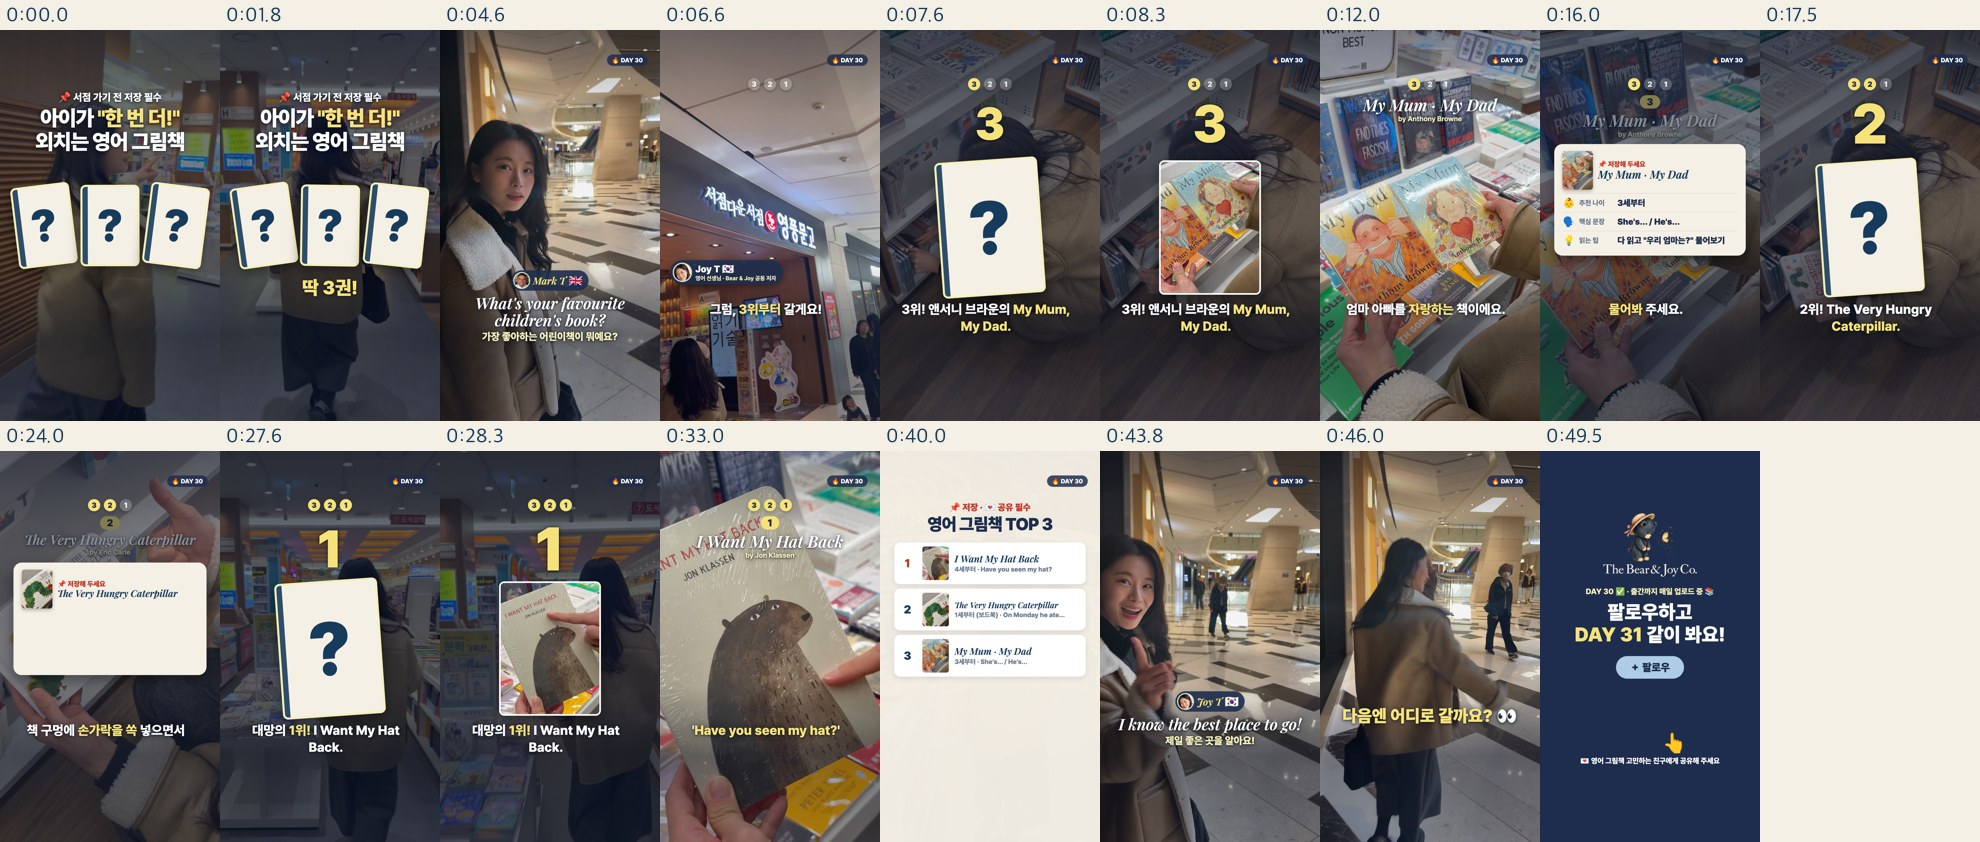
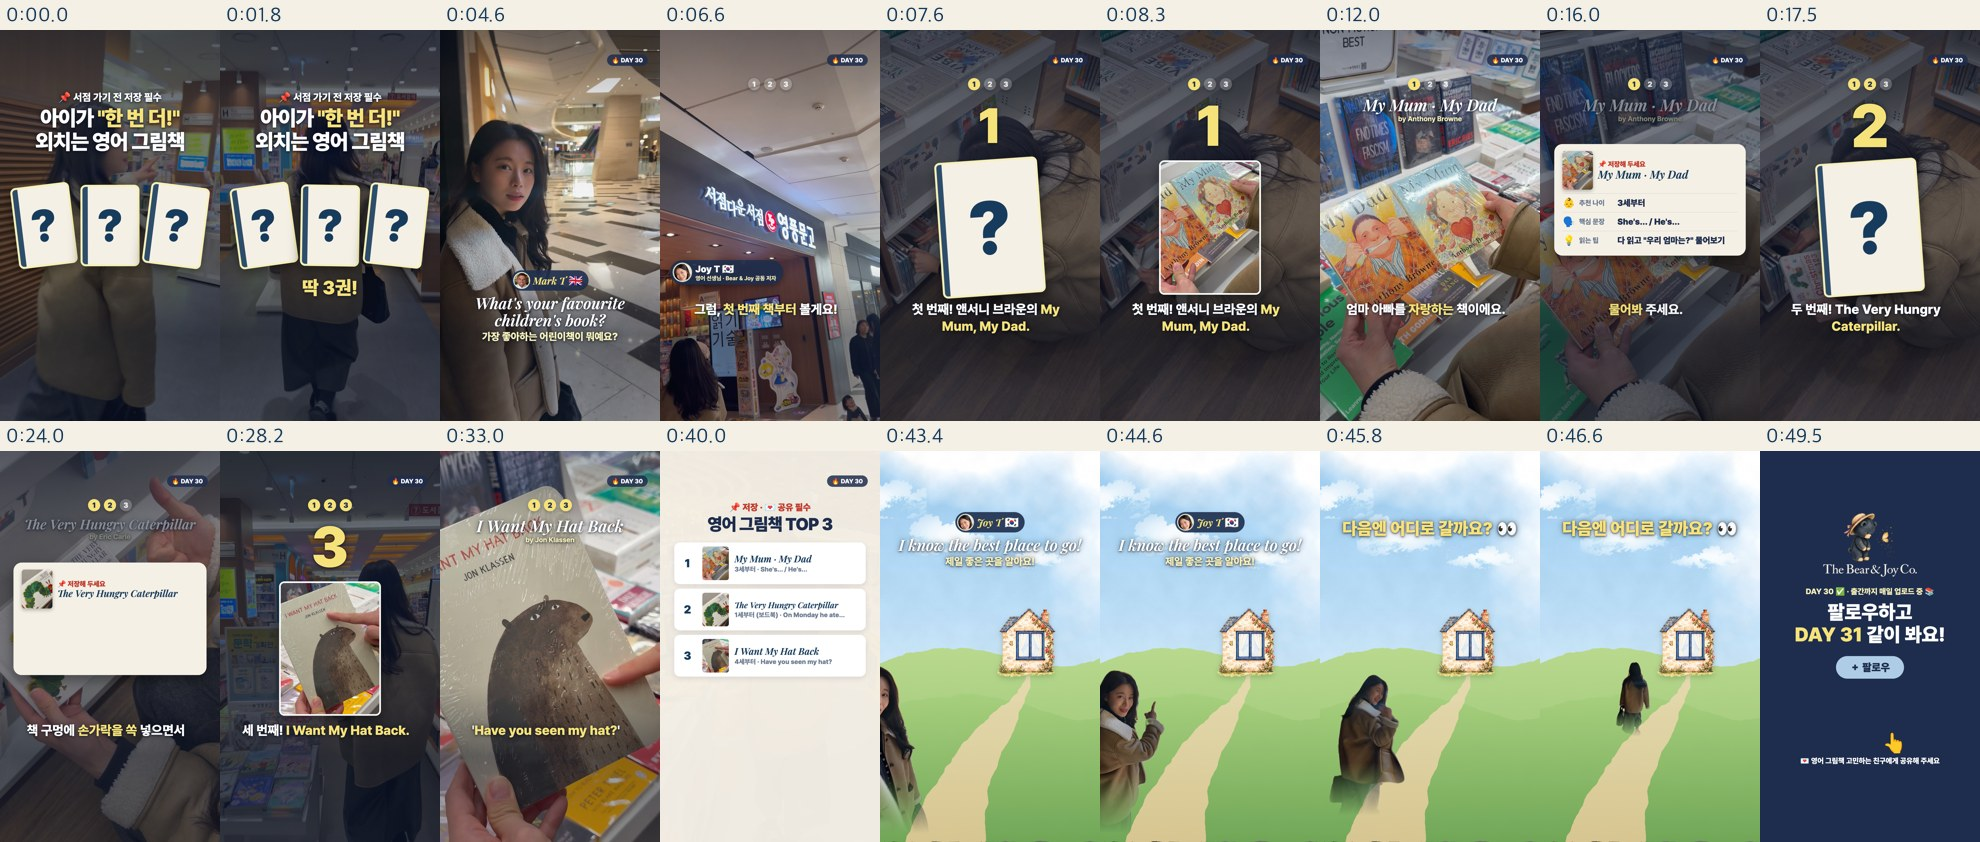
DAY 30 TOP 3 v4 (Joy): no ranking (books 1-2-3 in order), storybook ending with Joy running to the Bear & Joy cottage

diff --git a/remotion/src/JoyTop3Reel.tsx b/remotion/src/JoyTop3Reel.tsx
@@ -2,7 +2,7 @@
 // Mystery hook (three "?" books), a 3-2-1 countdown with card-flip reveals, a save-worthy info card per book,
 // a summary card to screenshot, then the Bear & Joy follow end card. Footage keeps its own colours (Joy, Day 28).
 import React, {useEffect, useState} from 'react';
-import {AbsoluteFill, Img, OffthreadVideo, continueRender, delayRender, interpolate, spring, staticFile, useCurrentFrame, useVideoConfig, Easing} from 'remotion';
+import {AbsoluteFill, Img, OffthreadVideo, Sequence, continueRender, delayRender, interpolate, spring, staticFile, useCurrentFrame, useVideoConfig, Easing} from 'remotion';
 
 type Scene = {name: string; s: number; e: number};
 type Book = {title: string; author: string; cover: string; info: [string, string, string][]};
@@ -58,12 +58,54 @@ const RankDots: React.FC<{t: number; scenes: Scene[]}> = ({t, scenes}) => {
   const at = (n: number) => scenes.find((s) => s.name === `reveal${n}`)?.s ?? 1e9;
   return (
     <div style={{position: 'absolute', top: 236, left: 0, right: 0, display: 'flex', justifyContent: 'center', gap: 18, fontFamily: FF}}>
-      {[3, 2, 1].map((n) => {
+      {[1, 2, 3].map((n) => {
         const on = t >= at(n);
         return <div key={n} style={{minWidth: 60, height: 60, borderRadius: 30, fontWeight: 900, fontSize: 36, display: 'flex', alignItems: 'center', justifyContent: 'center',
           background: on ? C.yellow : 'rgba(255,255,255,.22)', color: on ? C.navy : 'rgba(255,255,255,.85)', boxShadow: '0 6px 16px rgba(0,0,0,.25)'}}>{n}</div>;
       })}
     </div>
+  );
+};
+
+
+// Storybook ending (Joy, 11 Nov 2026): a small Joy in a watercolour landscape says "I know the best place to go!"
+// and runs off to the Bear & Joy cottage (the Day 1 worksheet house) far away on the hill.
+const StoryScene: React.FC<{t: number; s: number; e: number; media: string; fps: number}> = ({t, s, e, media, fps}) => {
+  const local = t - s;
+  const run = interpolate(local, [2.45, e - s - .1], [0, 1], {...clamp, easing: Easing.in(Easing.quad)});
+  const intro = sp(t, s, fps, 14);
+  // Joy: bottom-left, then along the path towards the cottage door, getting smaller
+  const scale = interpolate(run, [0, 1], [.58, .09]);
+  const x = interpolate(run, [0, 1], [-60, 560]);
+  const y = interpolate(run, [0, 1], [1920 - 1920 * .6 + 40, 1010]);
+  const drift = (k: number) => ((local * (14 + 6 * k) + k * 420) % 1500) - 300;
+  return (
+    <AbsoluteFill style={{opacity: Math.min(1, intro * 2)}}>
+      <Img src={staticFile('day0/bg-sky.jpg')} style={{position: 'absolute', height: 1920, left: -600, top: -300, filter: 'saturate(1.15)'}} />
+      {[0, 1, 2].map((k) => <Img key={k} src={staticFile(`day0/cloud${k}.png`)} style={{position: 'absolute', width: 520 - 80 * k, top: 140 + 160 * k, left: drift(k), opacity: .9}} />)}
+      <svg width="1080" height="1920" style={{position: 'absolute', inset: 0}}>
+        <defs>
+          <filter id="wc"><feTurbulence type="fractalNoise" baseFrequency=".012" numOctaves="3" seed="7" /><feDisplacementMap in="SourceGraphic" scale="26" /></filter>
+          <linearGradient id="h1" x1="0" y1="0" x2="0" y2="1"><stop offset="0" stopColor="#B9D98E" /><stop offset="1" stopColor="#8DBB6A" /></linearGradient>
+          <linearGradient id="h2" x1="0" y1="0" x2="0" y2="1"><stop offset="0" stopColor="#A6CF7C" /><stop offset="1" stopColor="#6FA557" /></linearGradient>
+          <linearGradient id="pth" x1="0" y1="0" x2="0" y2="1"><stop offset="0" stopColor="#EADBB5" /><stop offset="1" stopColor="#E2C997" /></linearGradient>
+        </defs>
+        <g filter="url(#wc)">
+          <path d="M-100 1080 Q 300 900 620 1010 T 1200 960 L 1200 1920 L -100 1920 Z" fill="url(#h1)" />
+          <path d="M-100 1300 Q 400 1120 760 1260 T 1200 1220 L 1200 1920 L -100 1920 Z" fill="url(#h2)" opacity=".95" />
+          <path d="M 120 1920 C 260 1600, 420 1400, 600 1250 S 700 1080, 700 1040 L 742 1040 C 760 1100, 720 1250, 640 1400 S 500 1700, 520 1920 Z" fill="url(#pth)" opacity=".9" />
+        </g>
+      </svg>
+      <Img src={staticFile(`${media}/cottage.png`)} style={{position: 'absolute', width: 300, left: 570, top: 760, filter: 'drop-shadow(0 10px 14px rgba(40,60,30,.25))'}} />
+      <Sequence from={Math.round(s * fps)} layout="none">
+        <div style={{position: 'absolute', left: x, top: y, width: 1080, height: 1920, transform: `scale(${scale})`, transformOrigin: '0 0',
+          // soft edges: feet fade into the grass, and the source frame's left edge never shows as a straight cut
+          WebkitMaskImage: 'linear-gradient(180deg, #000 70%, transparent 96%), linear-gradient(90deg, transparent 0%, #000 9%)', WebkitMaskComposite: 'source-in',
+          maskImage: 'linear-gradient(180deg, #000 70%, transparent 96%), linear-gradient(90deg, transparent 0%, #000 9%)', maskComposite: 'intersect'} as React.CSSProperties}>
+          <OffthreadVideo src={staticFile(`${media}/outro-joy.webm`)} transparent muted style={{width: 1080, height: 1920}} />
+        </div>
+      </Sequence>
+    </AbsoluteFill>
   );
 };
 
@@ -88,6 +130,8 @@ export const JoyTop3Reel: React.FC<{plan: Top3Plan}> = ({plan}) => {
       </AbsoluteFill>
       <AbsoluteFill style={{background: `rgba(14,22,40,${dark})`}} />
       <AbsoluteFill style={{background: 'linear-gradient(180deg, rgba(10,16,30,.35) 0%, rgba(10,16,30,0) 22%, rgba(10,16,30,0) 60%, rgba(10,16,30,.45) 78%, rgba(10,16,30,.3) 100%)'}} />
+
+      {name === 'outro' ? <StoryScene t={t} s={sc.s} e={sc.e} media={plan.media} fps={fps} /> : null}
 
       {/* HOOK: three mystery books on the shelves */}
       {name === 'hook' ? (() => {
@@ -134,7 +178,7 @@ export const JoyTop3Reel: React.FC<{plan: Top3Plan}> = ({plan}) => {
         const flip = interpolate(local, [.45, .85], [0, 1], {...clamp, easing: Easing.inOut(Easing.cubic)});
         return (
           <>
-            <div style={{position: 'absolute', top: 330, left: 0, right: 0, textAlign: 'center', fontWeight: 900, fontSize: rank === 1 ? 300 : 260, color: C.yellow, lineHeight: 1,
+            <div style={{position: 'absolute', top: 330, left: 0, right: 0, textAlign: 'center', fontWeight: 900, fontSize: 280, color: C.yellow, lineHeight: 1,
               textShadow: SHADOW, transform: `scale(${2.2 - 1.2 * r})`, opacity: Math.min(1, r * 2)}}>{rank}</div>
             <div style={{position: 'absolute', top: 640, left: 0, right: 0, display: 'flex', justifyContent: 'center', transform: `scale(${.9 + .1 * r})`}}>
               <BookCard w={500} h={660} flip={flip} cover={book.cover} media={plan.media} rot={(1 - flip) * -4} />
@@ -198,7 +242,7 @@ export const JoyTop3Reel: React.FC<{plan: Top3Plan}> = ({plan}) => {
                 return (
                   <div key={r} style={{display: 'flex', alignItems: 'center', gap: 28, background: C.white, borderRadius: 28, padding: 20, marginBottom: 22,
                     boxShadow: '0 10px 26px rgba(30,45,77,.12)', opacity: q, transform: `translateX(${(1 - q) * 80}px)`}}>
-                    <div style={{fontWeight: 900, fontSize: 56, color: r === 1 ? '#C0392B' : C.deep, width: 90, textAlign: 'center'}}>{r}</div>
+                    <div style={{fontWeight: 900, fontSize: 56, color: C.deep, width: 90, textAlign: 'center'}}>{r}</div>
                     <Img src={staticFile(`${plan.media}/covers/${b.cover}`)} style={{width: 130, height: 165, objectFit: 'cover', borderRadius: 12}} />
                     <div style={{flex: 1}}>
                       <div style={{fontFamily: "'Playfair Display', serif", fontStyle: 'italic', fontWeight: 600, fontSize: b.title.length > 20 ? 40 : 46, color: C.deep, lineHeight: 1.1}}>{b.title}</div>
@@ -213,7 +257,7 @@ export const JoyTop3Reel: React.FC<{plan: Top3Plan}> = ({plan}) => {
       })() : null}
 
       {!['hook', 'summary', 'end', 'markq', 'outro'].includes(name) ? <RankDots t={t} scenes={plan.scenes} /> : null}
-      {name !== 'hook' && name !== 'end' ? (
+      {name !== 'hook' && name !== 'end' && name !== 'outro' ? (
         <div style={{position: 'absolute', top: 120, right: 60, background: 'rgba(30,45,77,.85)', color: C.white, borderRadius: 999, padding: '10px 24px', fontWeight: 800, fontSize: 30}}>
           🔥 DAY {plan.day}</div>
       ) : null}
@@ -226,7 +270,7 @@ export const JoyTop3Reel: React.FC<{plan: Top3Plan}> = ({plan}) => {
         const o = interpolate(t, [l.e, l.e + .3], [1, 0], clamp);
         const mark = l.who === 'mark';
         return (
-          <div key={i} style={{position: 'absolute', left: 60, right: 60, top: 1180, textAlign: 'center', opacity: Math.min(1, p * 2) * o, transform: `translateY(${(1 - p) * 30}px)`}}>
+          <div key={i} style={{position: 'absolute', left: 60, right: 60, top: mark ? 1180 : 300, textAlign: 'center', opacity: Math.min(1, p * 2) * o, transform: `translateY(${(1 - p) * 30}px)`}}>
             <div style={{display: 'inline-flex', alignItems: 'center', gap: 14, background: 'rgba(30,45,77,.9)', borderRadius: 999, padding: '8px 28px 8px 8px'}}>
               <Img src={staticFile(mark ? 'brand/mark-avatar.png' : 'brand/joy-avatar.png')} style={{width: 84, height: 84, borderRadius: '50%'}} />
               <span style={{fontFamily: "'Playfair Display', serif", fontStyle: 'italic', fontWeight: 600, fontSize: 48, color: C.yellow}}>{mark ? 'Mark T' : 'Joy T'}</span>
@@ -240,7 +284,7 @@ export const JoyTop3Reel: React.FC<{plan: Top3Plan}> = ({plan}) => {
       {/* teaser for the next episode (Joy) */}
       {t >= plan.next.s && t < plan.speechEnd ? (() => {
         const p = sp(t, plan.next.s, fps, 8);
-        return <div style={{position: 'absolute', top: 1250, left: 40, right: 40, textAlign: 'center', fontWeight: 900, fontSize: 84, whiteSpace: 'nowrap', color: C.yellow, textShadow: SHADOW,
+        return <div style={{position: 'absolute', top: 330, left: 40, right: 40, textAlign: 'center', fontWeight: 900, fontSize: 84, whiteSpace: 'nowrap', color: C.yellow, textShadow: SHADOW,
           transform: `scale(${.6 + .4 * p}) rotate(${(1 - p) * -6}deg)`, opacity: Math.min(1, p * 2)}}>{plan.next.text}</div>;
       })() : null}
 

diff --git a/projects/2026-11-joy-top3/edl.py b/projects/2026-11-joy-top3/edl.py
@@ -7,20 +7,21 @@ RAW = "raw-footage/joy-top3"
 DAY = 30  # Joy: DAY 29 is a Mark video
 END = 4.5
 
-# v2 (Joy, 11 Nov 2026: "not exciting enough"): mystery hook with three "?" books, a 3-2-1 countdown with card-flip reveals,
+# v2 (Joy, 11 Nov 2026: "not exciting enough"): mystery hook with three "?" books, card-flip reveals numbered 1-2-3
+# (Joy: no ranking, the three books are in no particular order),
 # a save-worthy info card per book and a summary card at the end.
 # Picture, in program order: (clip, src_s, src_e, scene).
 PIC = [
     ("clip3.mov", 1.00, 4.80, "hook"),     # aisles, darkened: three mystery books
     ("clip1.mp4", 3.40, 5.55, "markq"),    # LIVE: Mark asks "What's your favourite children's book?", Joy turns and smiles
     ("clip2.mov", 3.00, 4.40, "joy"),      # Youngpoong sign
-    ("clip4.mov", 3.50, 4.90, "reveal3"),  # card flip: 3
-    ("book3.mov", 0.00, 5.00, "book3"),    # My Mum / My Dad
-    ("book3.mov", 9.30, 12.60, "book3"),
+    ("clip4.mov", 3.50, 4.90, "reveal1"),  # card flip: 1
+    ("book3.mov", 0.00, 5.00, "book1"),    # 1 My Mum / My Dad
+    ("book3.mov", 9.30, 12.60, "book1"),
     ("clip4.mov", 4.90, 6.30, "reveal2"),
     ("book2.mov", 2.50, 11.40, "book2"),   # The Very Hungry Caterpillar (thumbs up)
-    ("clip3.mov", 3.50, 4.90, "reveal1"),
-    ("book1.mov", 0.00, 9.20, "book1"),    # I Want My Hat Back
+    ("clip3.mov", 3.50, 4.90, "reveal3"),
+    ("book1.mov", 0.00, 9.20, "book3"),    # 3 I Want My Hat Back
     ("clip2.mov", 9.00, 13.80, "summary"), # walking in the shop (under the summary card)
     ("clip1.mp4", 5.55, 9.80, "outro"),    # LIVE: Joy "I know the best place to go!" and walks off; "oh okay" after 8.0 is muted
 ]
@@ -39,12 +40,12 @@ SPEECH_END = round(_t, 3)  # 47.0
 # Voice-over script: (start, end, Korean line). " / " = caption page break. Written at about 6 syllables a second.
 SCRIPT = [
     (0.15, 3.60, "수천 권 중에 / 아이가 '한 번 더!' 외치는 책, / 딱 3권!"),
-    (6.05, 7.25, "그럼, 3위부터 갈게요!"),
-    (7.45, 16.85, "3위! 앤서니 브라운의 My Mum, My Dad. / 'She's…', 'He's…' 짧은 문장으로 / 엄마 아빠를 자랑하는 책이에요. / "
+    (6.05, 7.25, "그럼, 첫 번째 책부터 볼게요!"),
+    (7.45, 16.85, "첫 번째! 앤서니 브라운의 My Mum, My Dad. / 'She's…', 'He's…' 짧은 문장으로 / 엄마 아빠를 자랑하는 책이에요. / "
                   "다 읽으면 '우리 엄마는?' 하고 / 물어봐 주세요."),
-    (17.15, 27.15, "2위! The Very Hungry Caterpillar. / 요일, 숫자, 음식 이름이 / 한 권에 다 들어 있어요. / "
+    (17.15, 27.15, "두 번째! The Very Hungry Caterpillar. / 요일, 숫자, 음식 이름이 / 한 권에 다 들어 있어요. / "
                    "책 구멍에 손가락을 쏙 넣으면서 / 읽어 주세요!"),
-    (27.45, 37.75, "대망의 1위! I Want My Hat Back. / 모자 잃은 곰이 계속 물어봐요. / 'Have you seen my hat?' / "
+    (27.45, 37.75, "세 번째! I Want My Hat Back. / 모자 잃은 곰이 계속 물어봐요. / 'Have you seen my hat?' / "
                    "아이가 금방 따라 하는데요, / 결말은… 직접 확인해 보세요! 🤫"),
     (38.05, 42.60, "저장해 두고 서점 갈 때 꺼내 보세요! / 친구에게도 꼭 보내 주세요."),
     (45.30, 46.90, "다음엔 어디로 갈까요? 👀"),

diff --git a/projects/2026-11-joy-top3/build.py b/projects/2026-11-joy-top3/build.py
@@ -10,16 +10,16 @@ from edl import DAY, END, SPEECH_END, SCRIPT, PROG, PIC, LIVE_LINES  # noqa: E40
 FPS = 30
 TOTAL = round(SPEECH_END + END, 3)
 syl = lambda p: len(re.findall(r"[가-힣0-9]", p)) + 1.5 * len(re.findall(r"[A-Za-z']+", p))
-HI = ["한 번 더!", "딱 3권!", "3위부터", "어디로", "My Mum, My Dad.", "짧은 문장", "자랑하는", "우리 엄마는?", "물어봐", "Caterpillar.",
-      "요일, 숫자, 음식", "한 권에", "손가락을 쏙", "읽어", "1위!", "계속", "Have you seen my hat?", "따라 하는데요,", "직접 확인해",
+HI = ["한 번 더!", "딱 3권!", "첫 번째 책부터", "어디로", "My Mum, My Dad.", "짧은 문장", "자랑하는", "우리 엄마는?", "물어봐", "Caterpillar.",
+      "요일, 숫자, 음식", "한 권에", "손가락을 쏙", "읽어", "I Want My Hat Back.", "계속", "Have you seen my hat?", "따라 하는데요,", "직접 확인해",
       "저장해 두고", "친구에게", "보내"]
-# Books, in countdown order. Info cards are the save-worthy part (age, key sentence, how to read it).
+# Books, numbered in the order they appear (Joy: no ranking). Info cards are the save-worthy part (age, key sentence, how to read it).
 BOOKS = {
-    3: {"title": "My Mum · My Dad", "author": "Anthony Browne", "cover": "mumdad.jpg",
+    1: {"title": "My Mum · My Dad", "author": "Anthony Browne", "cover": "mumdad.jpg",
         "info": [("👶", "추천 나이", "3세부터"), ("🗣", "핵심 문장", "She's… / He's…"), ("💡", "읽는 팁", "다 읽고 \"우리 엄마는?\" 물어보기")]},
     2: {"title": "The Very Hungry Caterpillar", "author": "Eric Carle", "cover": "caterpillar.jpg",
         "info": [("👶", "추천 나이", "1세부터 (보드북)"), ("🗣", "핵심 문장", "On Monday he ate…"), ("💡", "읽는 팁", "책 구멍에 손가락 쏙!")]},
-    1: {"title": "I Want My Hat Back", "author": "Jon Klassen", "cover": "hat.jpg",
+    3: {"title": "I Want My Hat Back", "author": "Jon Klassen", "cover": "hat.jpg",
         "info": [("👶", "추천 나이", "4세부터"), ("🗣", "핵심 문장", "Have you seen my hat?"), ("💡", "읽는 팁", "동물 역할 나눠 읽기")]},
 }
 

diff --git a/projects/2026-11-joy-top3/script.md b/projects/2026-11-joy-top3/script.md
@@ -1,4 +1,4 @@
-# DAY 30 · 영어 그림책 TOP 3: 녹음 대본 (v3)
+# DAY 30 · 영어 그림책 TOP 3: 녹음 대본 (v4)
 
 영상 길이는 51.5초예요. 조이 선생님이 녹음하실 부분은 아래 **🎙 표시** 줄이에요.
 **🔊 표시** 줄은 영상에 이미 녹음된 진짜 목소리예요(마크의 질문, 조이 선생님의 "I know the best place to go!"). 이 부분은 녹음하지 않으셔도 돼요.
@@ -8,7 +8,7 @@
 ## 녹음 방법
 - 🎙 줄만 **처음부터 끝까지 한 번에** 녹음해 주세요. 문단 사이는 반 박자만 쉬면 돼요.
 - 아이폰 음성 메모로 충분해요. 조용한 방에서 입과 폰 사이를 한 뼘 정도 띄워 주세요.
-- **"3위!", "2위!", "대망의 1위!"**는 발표하듯 힘 있게 말해 주세요. 이 순간에 물음표 카드가 뒤집혀요. (화면에는 숫자만 크게 나와요.)
+- **"첫 번째!", "두 번째!", "세 번째!"**는 힘 있게 말해 주세요. 이 순간에 물음표 카드가 뒤집히고 숫자 1 · 2 · 3이 크게 나와요. (순위가 아니라 순서예요.)
 - **"결말은… 직접 확인해 보세요!"**는 비밀 이야기하듯 살짝 속삭여 주세요. 🤫
 - **"다음엔 어디로 갈까요?"**는 장난스럽게, 궁금하게 말해 주세요.
 - 틀려도 멈추지 말고 그 문장만 다시 읽어 주세요. 제가 잘라서 맞출게요.
@@ -20,13 +20,13 @@
 |---|---|---|
 | 0:00 – 0:04 | 서점 + 물음표 책 3권 ❓❓❓ / "딱 3권!" | 🎙 수천 권 중에 아이가 '한 번 더!' 외치는 책, 딱 3권! |
 | 0:04 – 0:06 | 조이 선생님이 돌아봐요 / Mark T 🇬🇧 | 🔊 (마크) What's your favourite children's book? |
-| 0:06 – 0:07 | 영풍문고 입구 | 🎙 그럼, 3위부터 갈게요! |
-| 0:07 – 0:17 | **3** 카드가 뒤집혀요 → My Mum · My Dad → 정보 카드 | 🎙 3위! 앤서니 브라운의 My Mum, My Dad. 'She's…', 'He's…' 짧은 문장으로 엄마 아빠를 자랑하는 책이에요. 다 읽으면 '우리 엄마는?' 하고 물어봐 주세요. |
-| 0:17 – 0:27 | **2** 카드가 뒤집혀요 → The Very Hungry Caterpillar 👍 → 정보 카드 | 🎙 2위! The Very Hungry Caterpillar. 요일, 숫자, 음식 이름이 한 권에 다 들어 있어요. 책 구멍에 손가락을 쏙 넣으면서 읽어 주세요! |
-| 0:27 – 0:38 | **1** 카드가 뒤집혀요 → I Want My Hat Back → 정보 카드 | 🎙 대망의 1위! I Want My Hat Back. 모자 잃은 곰이 계속 물어봐요. 'Have you seen my hat?' 아이가 금방 따라 하는데요, 결말은… 직접 확인해 보세요! |
+| 0:06 – 0:07 | 영풍문고 입구 | 🎙 그럼, 첫 번째 책부터 볼게요! |
+| 0:07 – 0:17 | **1** 카드가 뒤집혀요 → My Mum · My Dad → 정보 카드 | 🎙 첫 번째! 앤서니 브라운의 My Mum, My Dad. 'She's…', 'He's…' 짧은 문장으로 엄마 아빠를 자랑하는 책이에요. 다 읽으면 '우리 엄마는?' 하고 물어봐 주세요. |
+| 0:17 – 0:27 | **2** 카드가 뒤집혀요 → The Very Hungry Caterpillar 👍 → 정보 카드 | 🎙 두 번째! The Very Hungry Caterpillar. 요일, 숫자, 음식 이름이 한 권에 다 들어 있어요. 책 구멍에 손가락을 쏙 넣으면서 읽어 주세요! |
+| 0:27 – 0:38 | **3** 카드가 뒤집혀요 → I Want My Hat Back → 정보 카드 | 🎙 세 번째! I Want My Hat Back. 모자 잃은 곰이 계속 물어봐요. 'Have you seen my hat?' 아이가 금방 따라 하는데요, 결말은… 직접 확인해 보세요! |
 | 0:38 – 0:43 | 영어 그림책 TOP 3 정리 카드 📌 | 🎙 저장해 두고 서점 갈 때 꺼내 보세요! 친구에게도 꼭 보내 주세요. |
-| 0:43 – 0:45 | 조이 선생님이 브이 하고 걸어가요 / Joy T 🇰🇷 | 🔊 (조이) I know the best place to go! |
-| 0:45 – 0:47 | "다음엔 어디로 갈까요? 👀" | 🎙 다음엔 어디로 갈까요? |
+| 0:43 – 0:45 | 동화책 장면: 저 멀리 Bear & Joy 집, 작은 조이 선생님 / Joy T 🇰🇷 | 🔊 (조이) I know the best place to go! |
+| 0:45 – 0:47 | 조이 선생님이 집으로 달려가요 / "다음엔 어디로 갈까요? 👀" | 🎙 다음엔 어디로 갈까요? |
 | 0:47 – 0:51 | 엔딩: 팔로우하고 DAY 31 같이 봐요! | (말하지 않아요) |
 
 ## 읽을 때 참고
@@ -41,6 +41,6 @@
 
 | 숫자 | 책 | 추천 나이 | 핵심 문장 | 읽는 팁 |
 |---|---|---|---|---|
-| 3 | My Mum · My Dad (Anthony Browne) | 3세부터 | She's… / He's… | 다 읽고 "우리 엄마는?" 물어보기 |
+| 1 | My Mum · My Dad (Anthony Browne) | 3세부터 | She's… / He's… | 다 읽고 "우리 엄마는?" 물어보기 |
 | 2 | The Very Hungry Caterpillar (Eric Carle) | 1세부터 (보드북) | On Monday he ate… | 책 구멍에 손가락 쏙! |
-| 1 | I Want My Hat Back (Jon Klassen) | 4세부터 | Have you seen my hat? | 동물 역할 나눠 읽기 |
+| 3 | I Want My Hat Back (Jon Klassen) | 4세부터 | Have you seen my hat? | 동물 역할 나눠 읽기 |
